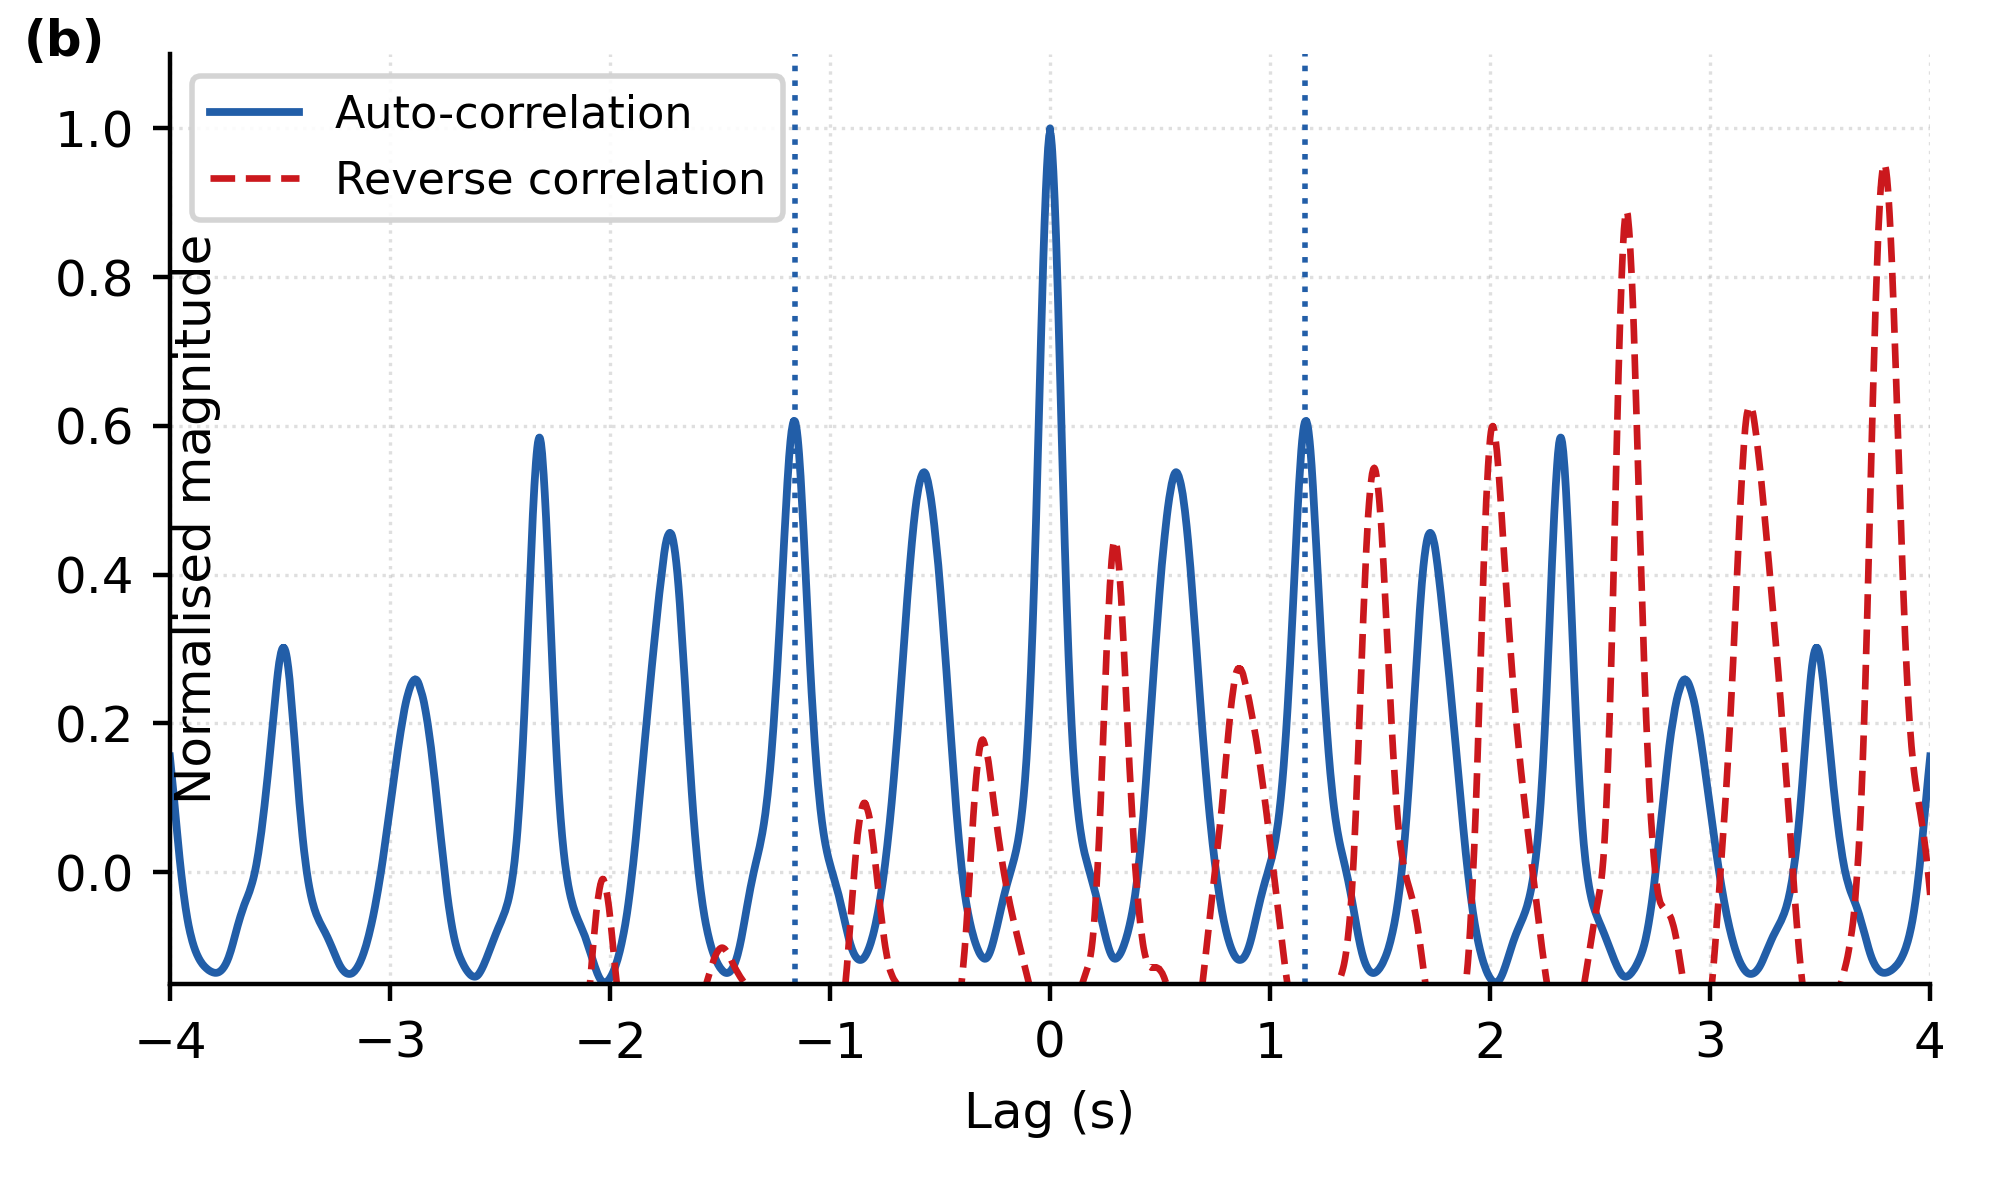
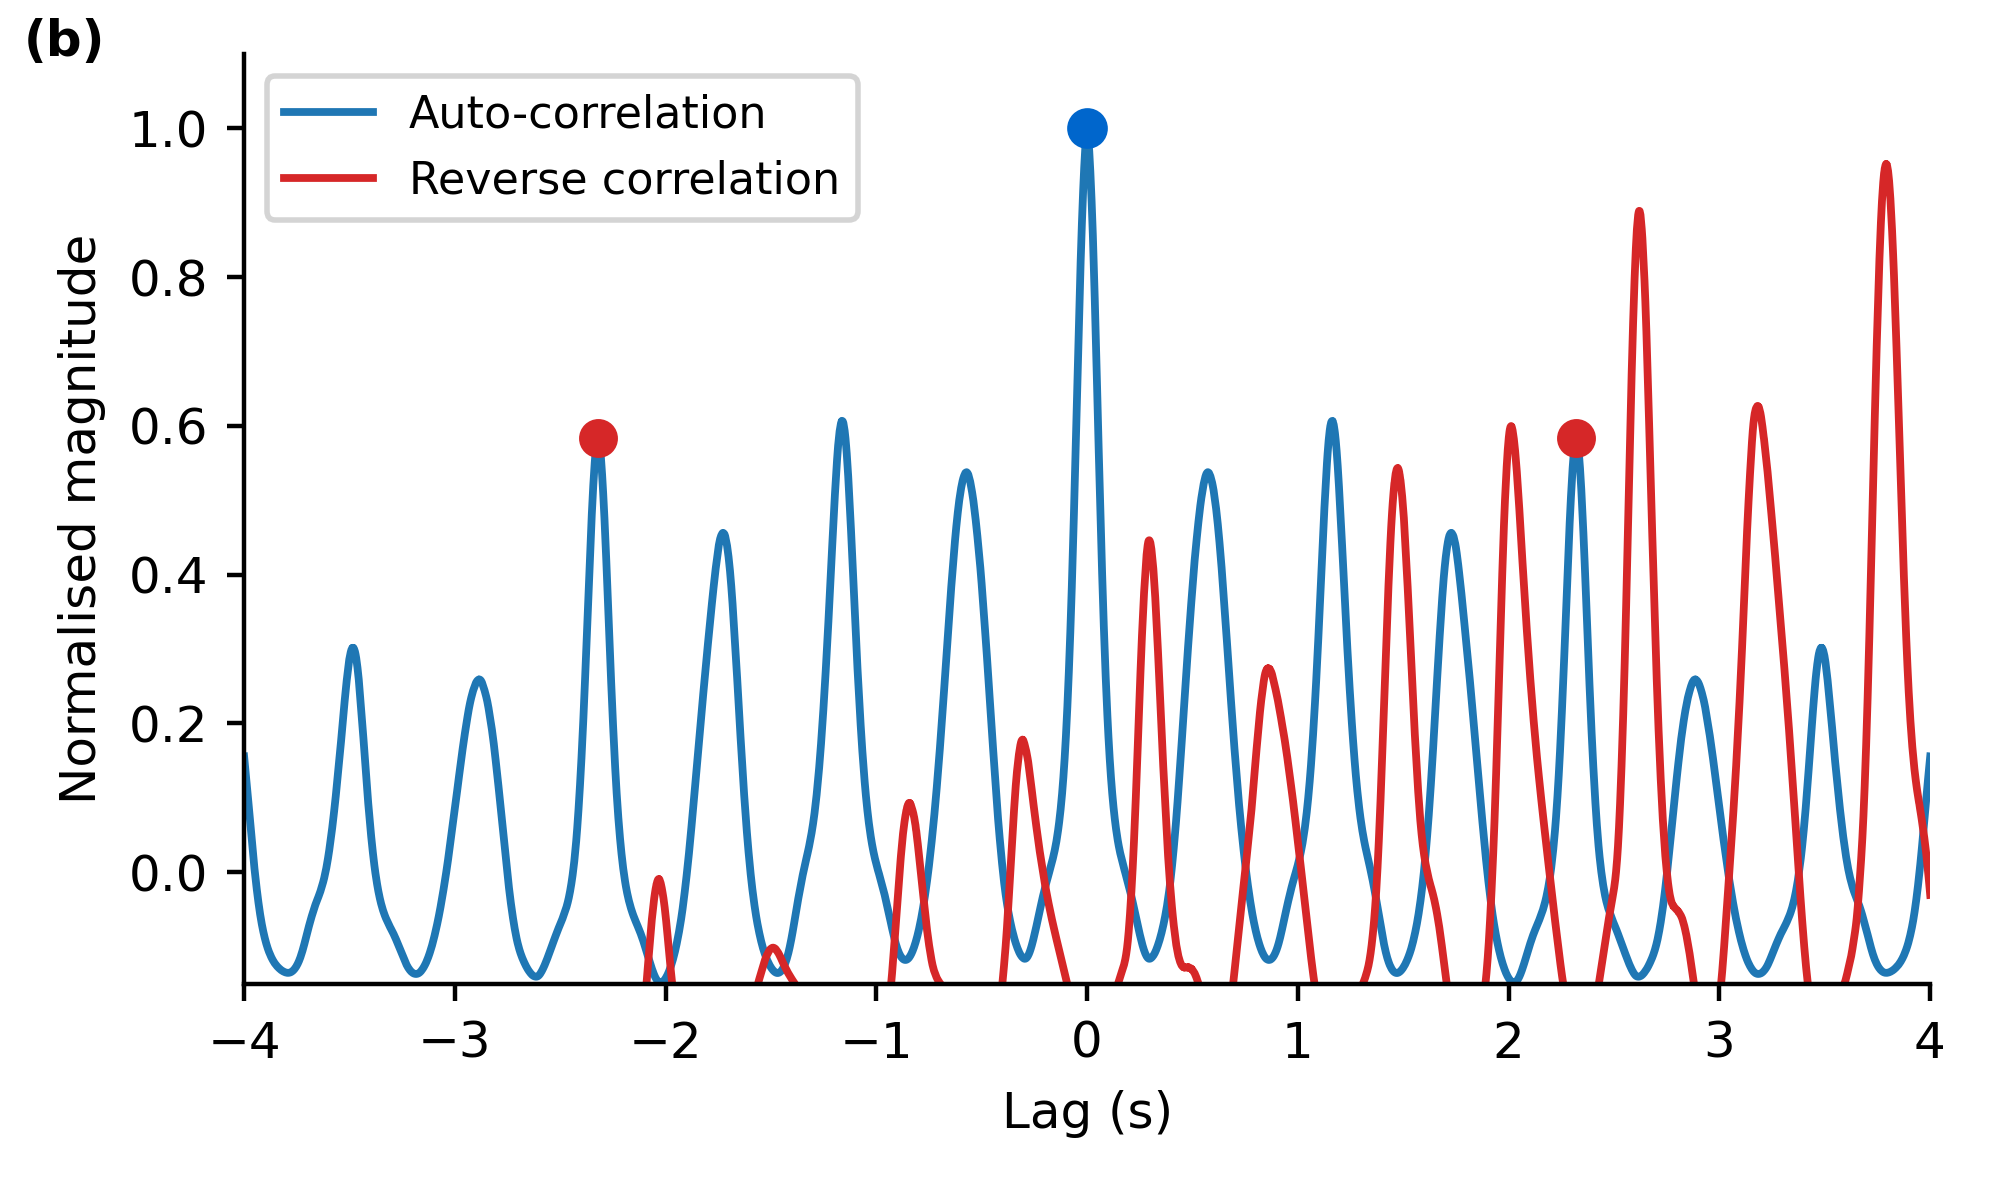
style(publication): tweak correlation colors, peak dots, no grid

diff --git a/publication_code/figure02_scan_segmentation.py b/publication_code/figure02_scan_segmentation.py
@@ -275,22 +275,37 @@ def render_correlation_figure(
     """Create the standalone correlation figure."""
 
     fig, ax = plt.subplots(figsize=(5.0, 3.0))
-    ax.plot(lags_s, auto_corr, color="#1f77b4", linewidth=1.4, label="Auto-correlation")
-    ax.plot(lags_s, reverse_corr, color="#d62728", linewidth=1.4, label="Reverse correlation")
+    auto_line_color = "#1f77b4"   # blue (line)
+    center_dot_blue = "#0066cc"   # distinct blue for center peak
+    side_dot_red = "#d62728"      # red for side peaks
+    rev_line_color = "#d62728"    # solid red for reverse corr line
 
-    # Mark peaks with dots instead of vertical guide lines
+    ax.plot(lags_s, auto_corr, color=auto_line_color, linewidth=1.4, label="Auto-correlation")
+    ax.plot(lags_s, reverse_corr, color=rev_line_color, linewidth=1.4, label="Reverse correlation")
+
+    # Mark peaks: center (closest to 0 lag) in blue, side peaks in red
     if auto_peak_indices:
-        xs = [lags_s[i] for i in auto_peak_indices if 0 <= i < len(lags_s)]
-        ys = [auto_corr[i] for i in auto_peak_indices if 0 <= i < len(auto_corr)]
-        ax.scatter(xs, ys, color="#1f77b4", s=28, zorder=4)
+        # identify center by minimum |lag|
+        valid = [i for i in auto_peak_indices if 0 <= i < len(lags_s)]
+        if valid:
+            center_idx = min(valid, key=lambda i: abs(lags_s[i]))
+            side = [i for i in valid if i != center_idx]
+            # center dot
+            ax.scatter([lags_s[center_idx]], [auto_corr[center_idx]], color=center_dot_blue, s=40, zorder=5)
+            # side dots
+            if side:
+                ax.scatter([lags_s[i] for i in side], [auto_corr[i] for i in side], color=side_dot_red, s=36, zorder=5)
+
+    # Mark reverse-corr global peak with blue dot as requested
     if reverse_peak_index is not None and 0 <= reverse_peak_index < len(lags_s):
-        ax.scatter([lags_s[reverse_peak_index]], [reverse_corr[reverse_peak_index]], color="#d62728", s=36, zorder=4)
+        ax.scatter([lags_s[reverse_peak_index]], [reverse_corr[reverse_peak_index]], color=center_dot_blue, s=42, zorder=5)
 
     ax.set_xlabel("Lag (s)")
     ax.set_ylabel("Normalised magnitude")
     ax.set_xlim(-4.0, 4.0)
     ax.set_ylim(-0.15, 1.1)
-    ax.grid(True, linestyle=":", linewidth=0.6, alpha=0.4)
+    # No grid per request
+    ax.grid(False)
     ax.spines["top"].set_visible(False)
     ax.spines["right"].set_visible(False)
     legend = ax.legend(loc="upper left", fontsize=8, frameon=True)
